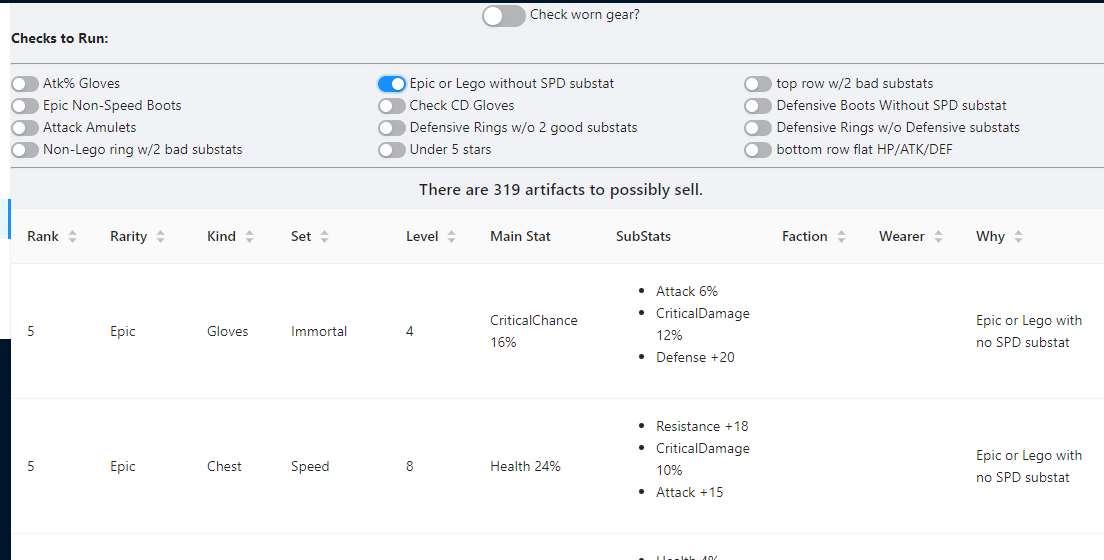
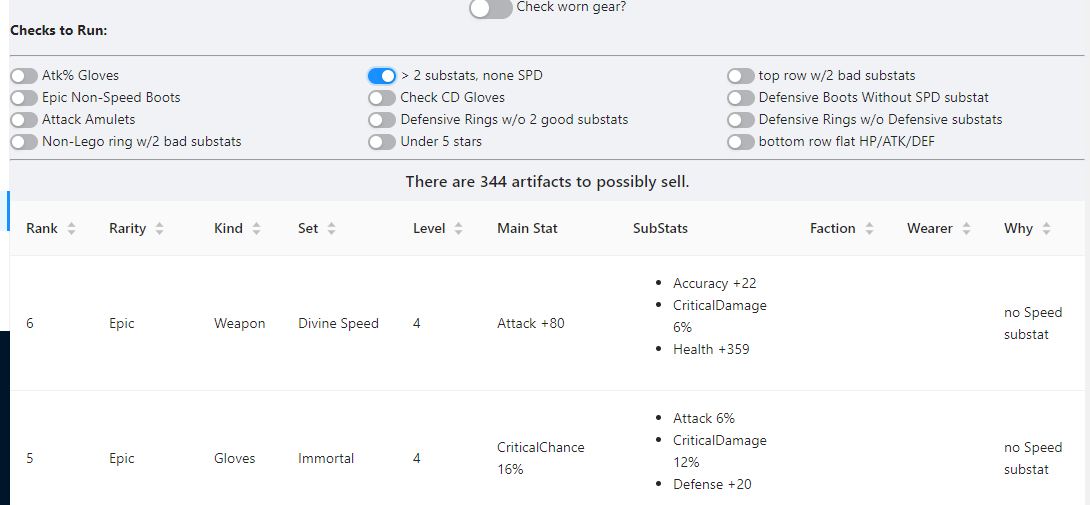
changed checker from 'epic or lego w/o speed' to '>= 3 substats w/o speed'

diff --git a/src/ArtifactSellPage.js b/src/ArtifactSellPage.js
@@ -13,7 +13,7 @@ class ArtifactSellPage extends React.Component {
     var checkers = [];
     var id = 0;
     checkers.push({ id: id++, label: "Atk% Gloves", fn: this.SellAtkPercentGloves });
-    checkers.push({ id: id++, label: "Epic or Lego without SPD substat", fn: this.SellEpicOrLegoWithoutSpeedSubstat });
+    checkers.push({ id: id++, label: "> 2 substats, none SPD", fn: this.SellThreeSubstatsNoSpeed });
     checkers.push({ id: id++, label: "top row w/2 bad substats", fn: this.SellTopRowWith2BadSubstats });
     checkers.push({ id: id++, label: "Epic Non-Speed Boots", fn: this.SellEpicNonSpeedBoots });
     checkers.push({ id: id++, label: "Check CD Gloves", fn: this.SellMostCDGloves });
@@ -46,23 +46,19 @@ class ArtifactSellPage extends React.Component {
     return "Atk% gloves";
   }
 
-  SellEpicOrLegoWithoutSpeedSubstat(artifact) {
+  SellThreeSubstatsNoSpeed(artifact) {
     if (!artifact) return null;
     if (!artifact.rarity) return null;
     if (artifact.requiredFraction) return null; // accessory
-    var lc = artifact.rarity.toLowerCase();
-    if (!(lc === "epic" || lc === "legendary")) return null;
     var main = artifact.primaryBonus;
     if (main.kind.toLowerCase() === "speed") return null;
     var secondaries = artifact.secondaryBonuses;
-    if (!secondaries) {
-      return "Epic or Lego with no SPD substat";
-    }
+    if (!secondaries || secondaries.length < 3) return null;
     var hasInSecondary = secondaries.some((bonus) => {
       return bonus.kind.toLowerCase() === "speed";
     });
     if (!hasInSecondary) {
-      return "Epic or Lego with no SPD substat";
+      return "no Speed substat";
     }
   }
 

diff --git a/src/HelpPage.js b/src/HelpPage.js
@@ -92,13 +92,13 @@ class HelpPage extends React.Component {
                 That's why you don't see anything recommended at the start.
             </p>
             <p>
-                The most aggressive one is probably 'Epic or Lego without SPD substat'. Turn that
+                The most aggressive one is probably '&gt; 2 substats, none SPD'. Turn that
                 toggle on, and you'll see the display change to something like this:
                 <img src="pix/help/sell_1.png" alt="1 check on" />
             </p>
             <p>
-                This one check found 319 possible artifacts to sell for me. The first two
-                are a 5* Epic Immortal Gloves, and a 5* Epic Speed Chest.
+                This one check found 344 possible artifacts to sell for me. The first two
+                are a 6* Epic 'Divine Speed' Gloves, and a 5* Epic Immortal Gloves.
             </p>
             <p>
                 You can sort this output on any column - for example, you may want this grouped by
@@ -112,7 +112,7 @@ class HelpPage extends React.Component {
             </p>
             <p>
                 Now, turn on the 'Check worn gear' toggle and you'll see the total go up. For example, in the output below,
-                the first two pieces are worn by 'Hurler' and 'Grinner', while the third piece is unworn:
+                the first two pieces are worn by 'Hurler' and 'Grinner':
                 <img src="pix/help/sell_worn.png" alt="include worn gear" />
             </p>
         </div>

diff --git a/README.md b/README.md
@@ -1,7 +1,7 @@
 
 # Description
 
-This project ('[Brago](https://github.com/kfishkin/brago)'was bootstrapped with [Create React App](https://github.com/facebook/create-react-app).
+This project ('[Brago](https://github.com/kfishkin/brago)') was bootstrapped with [Create React App](https://github.com/facebook/create-react-app).
 
 
 This is a React app that takes a JSON file created by
